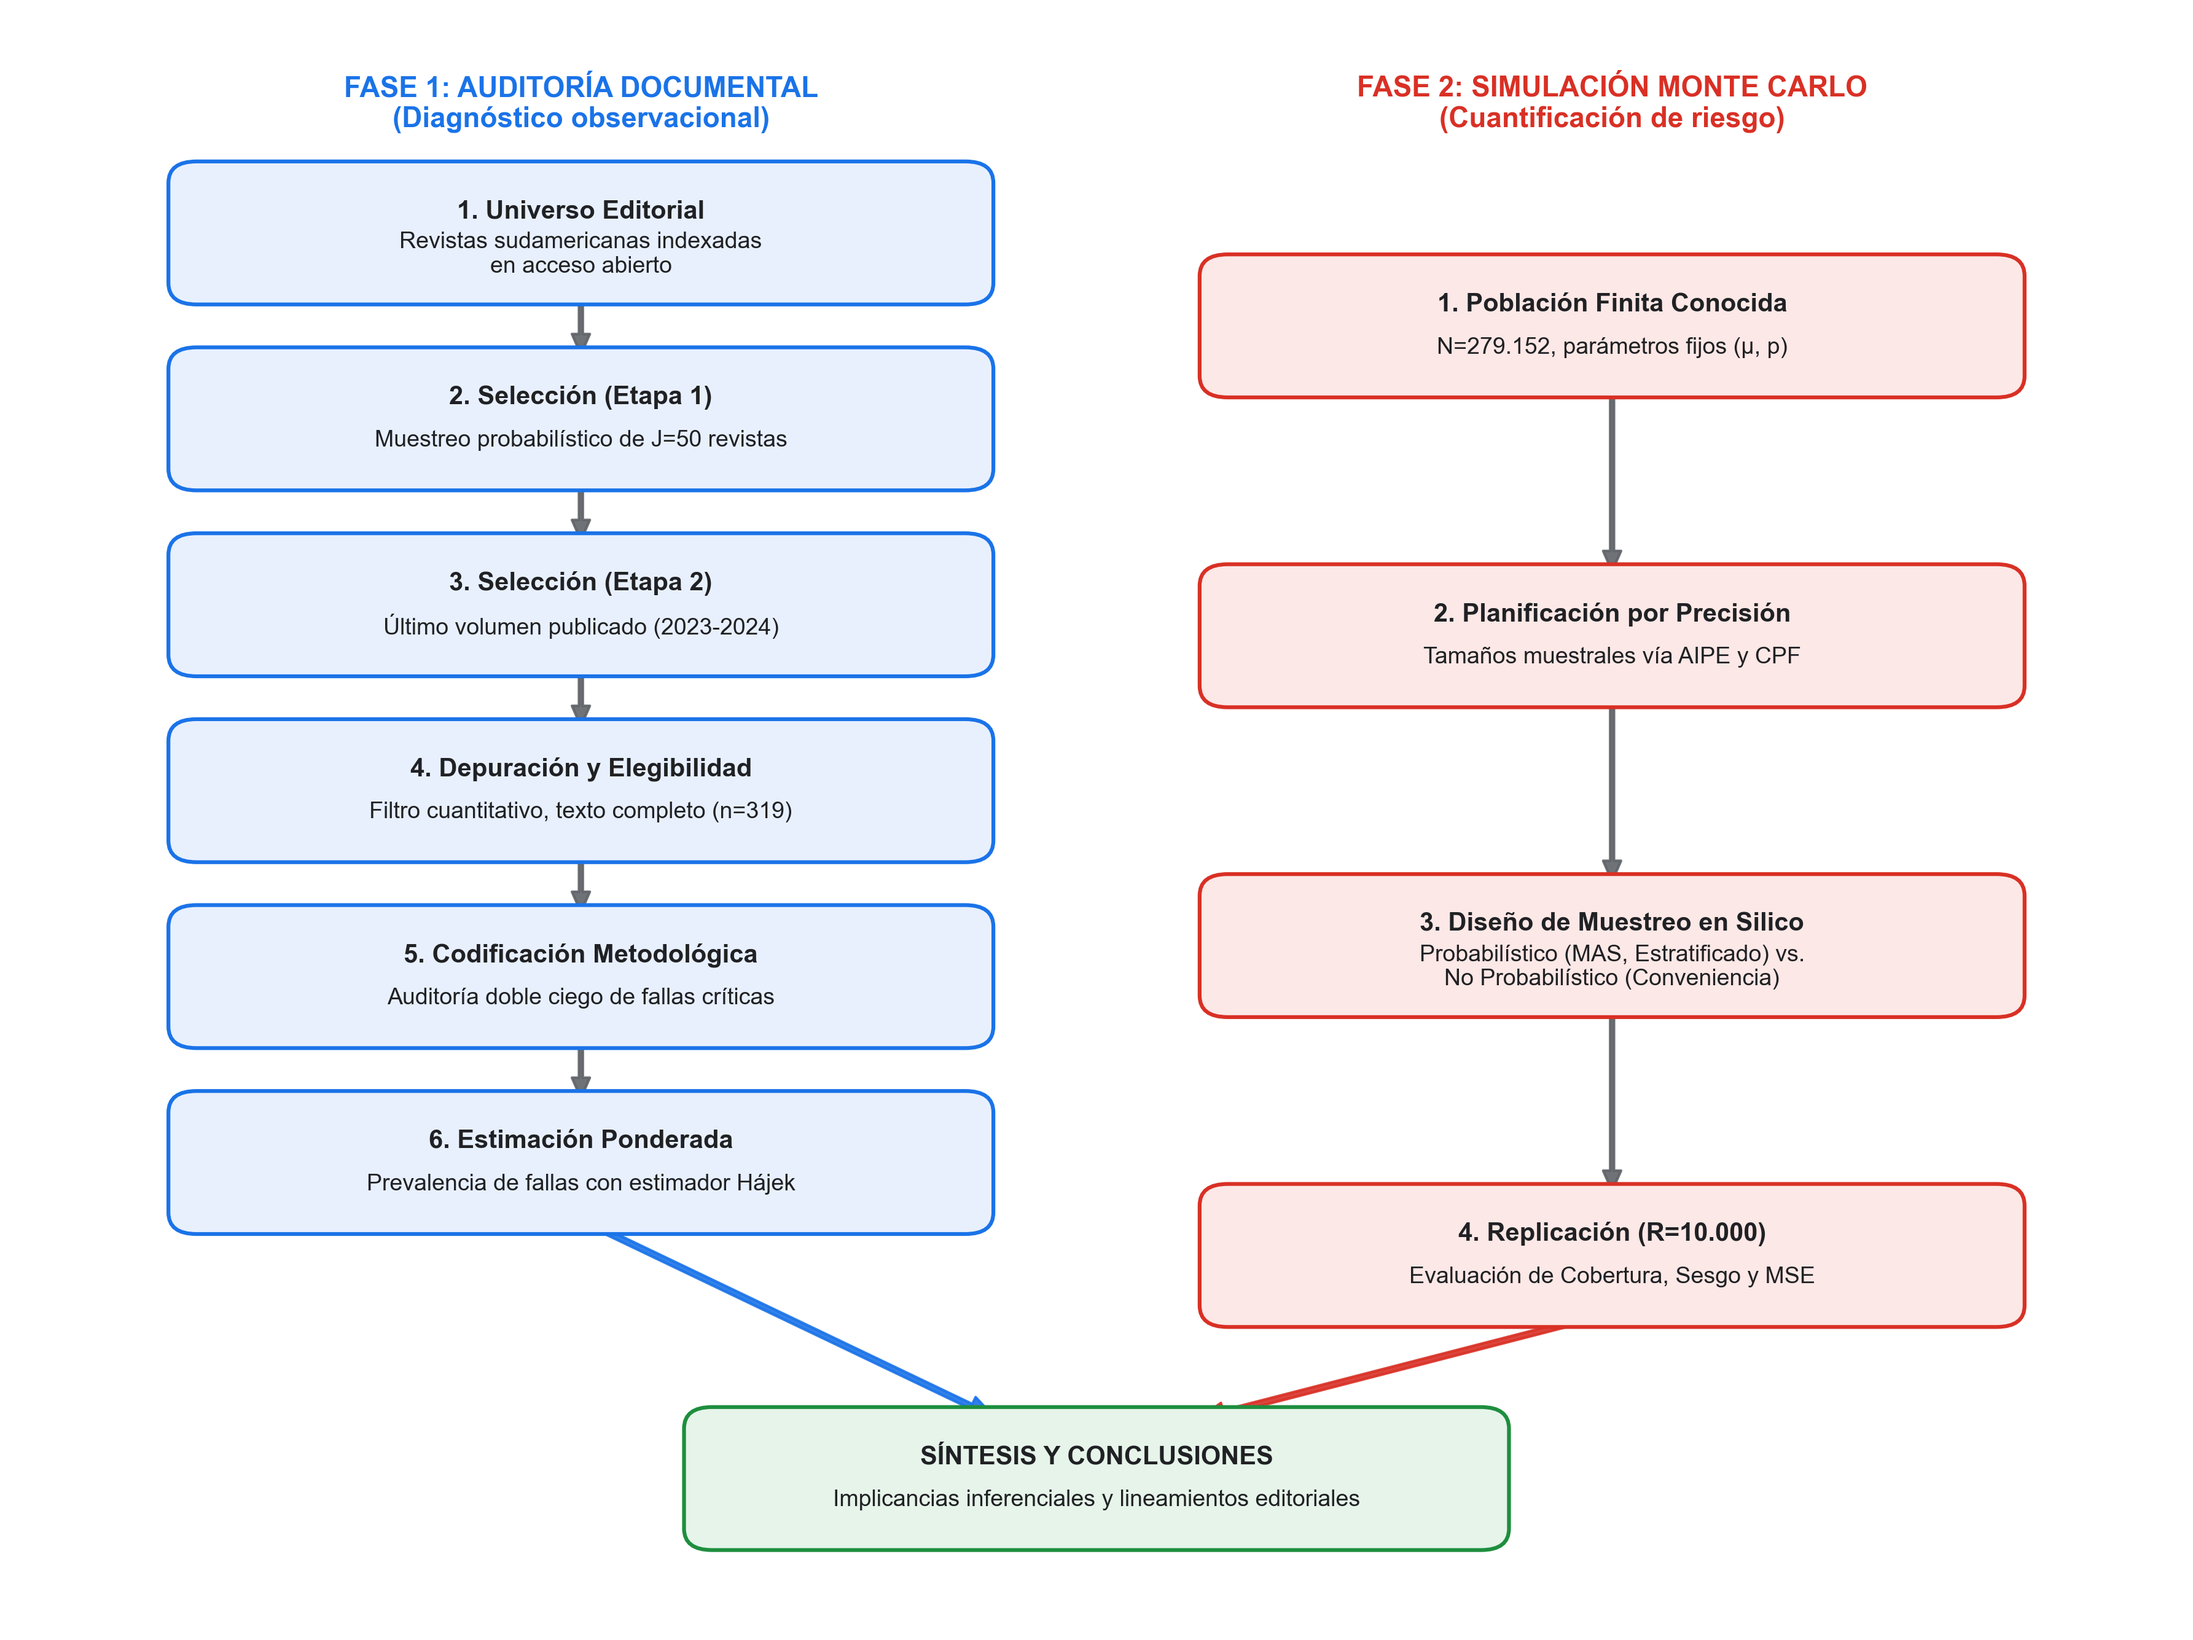
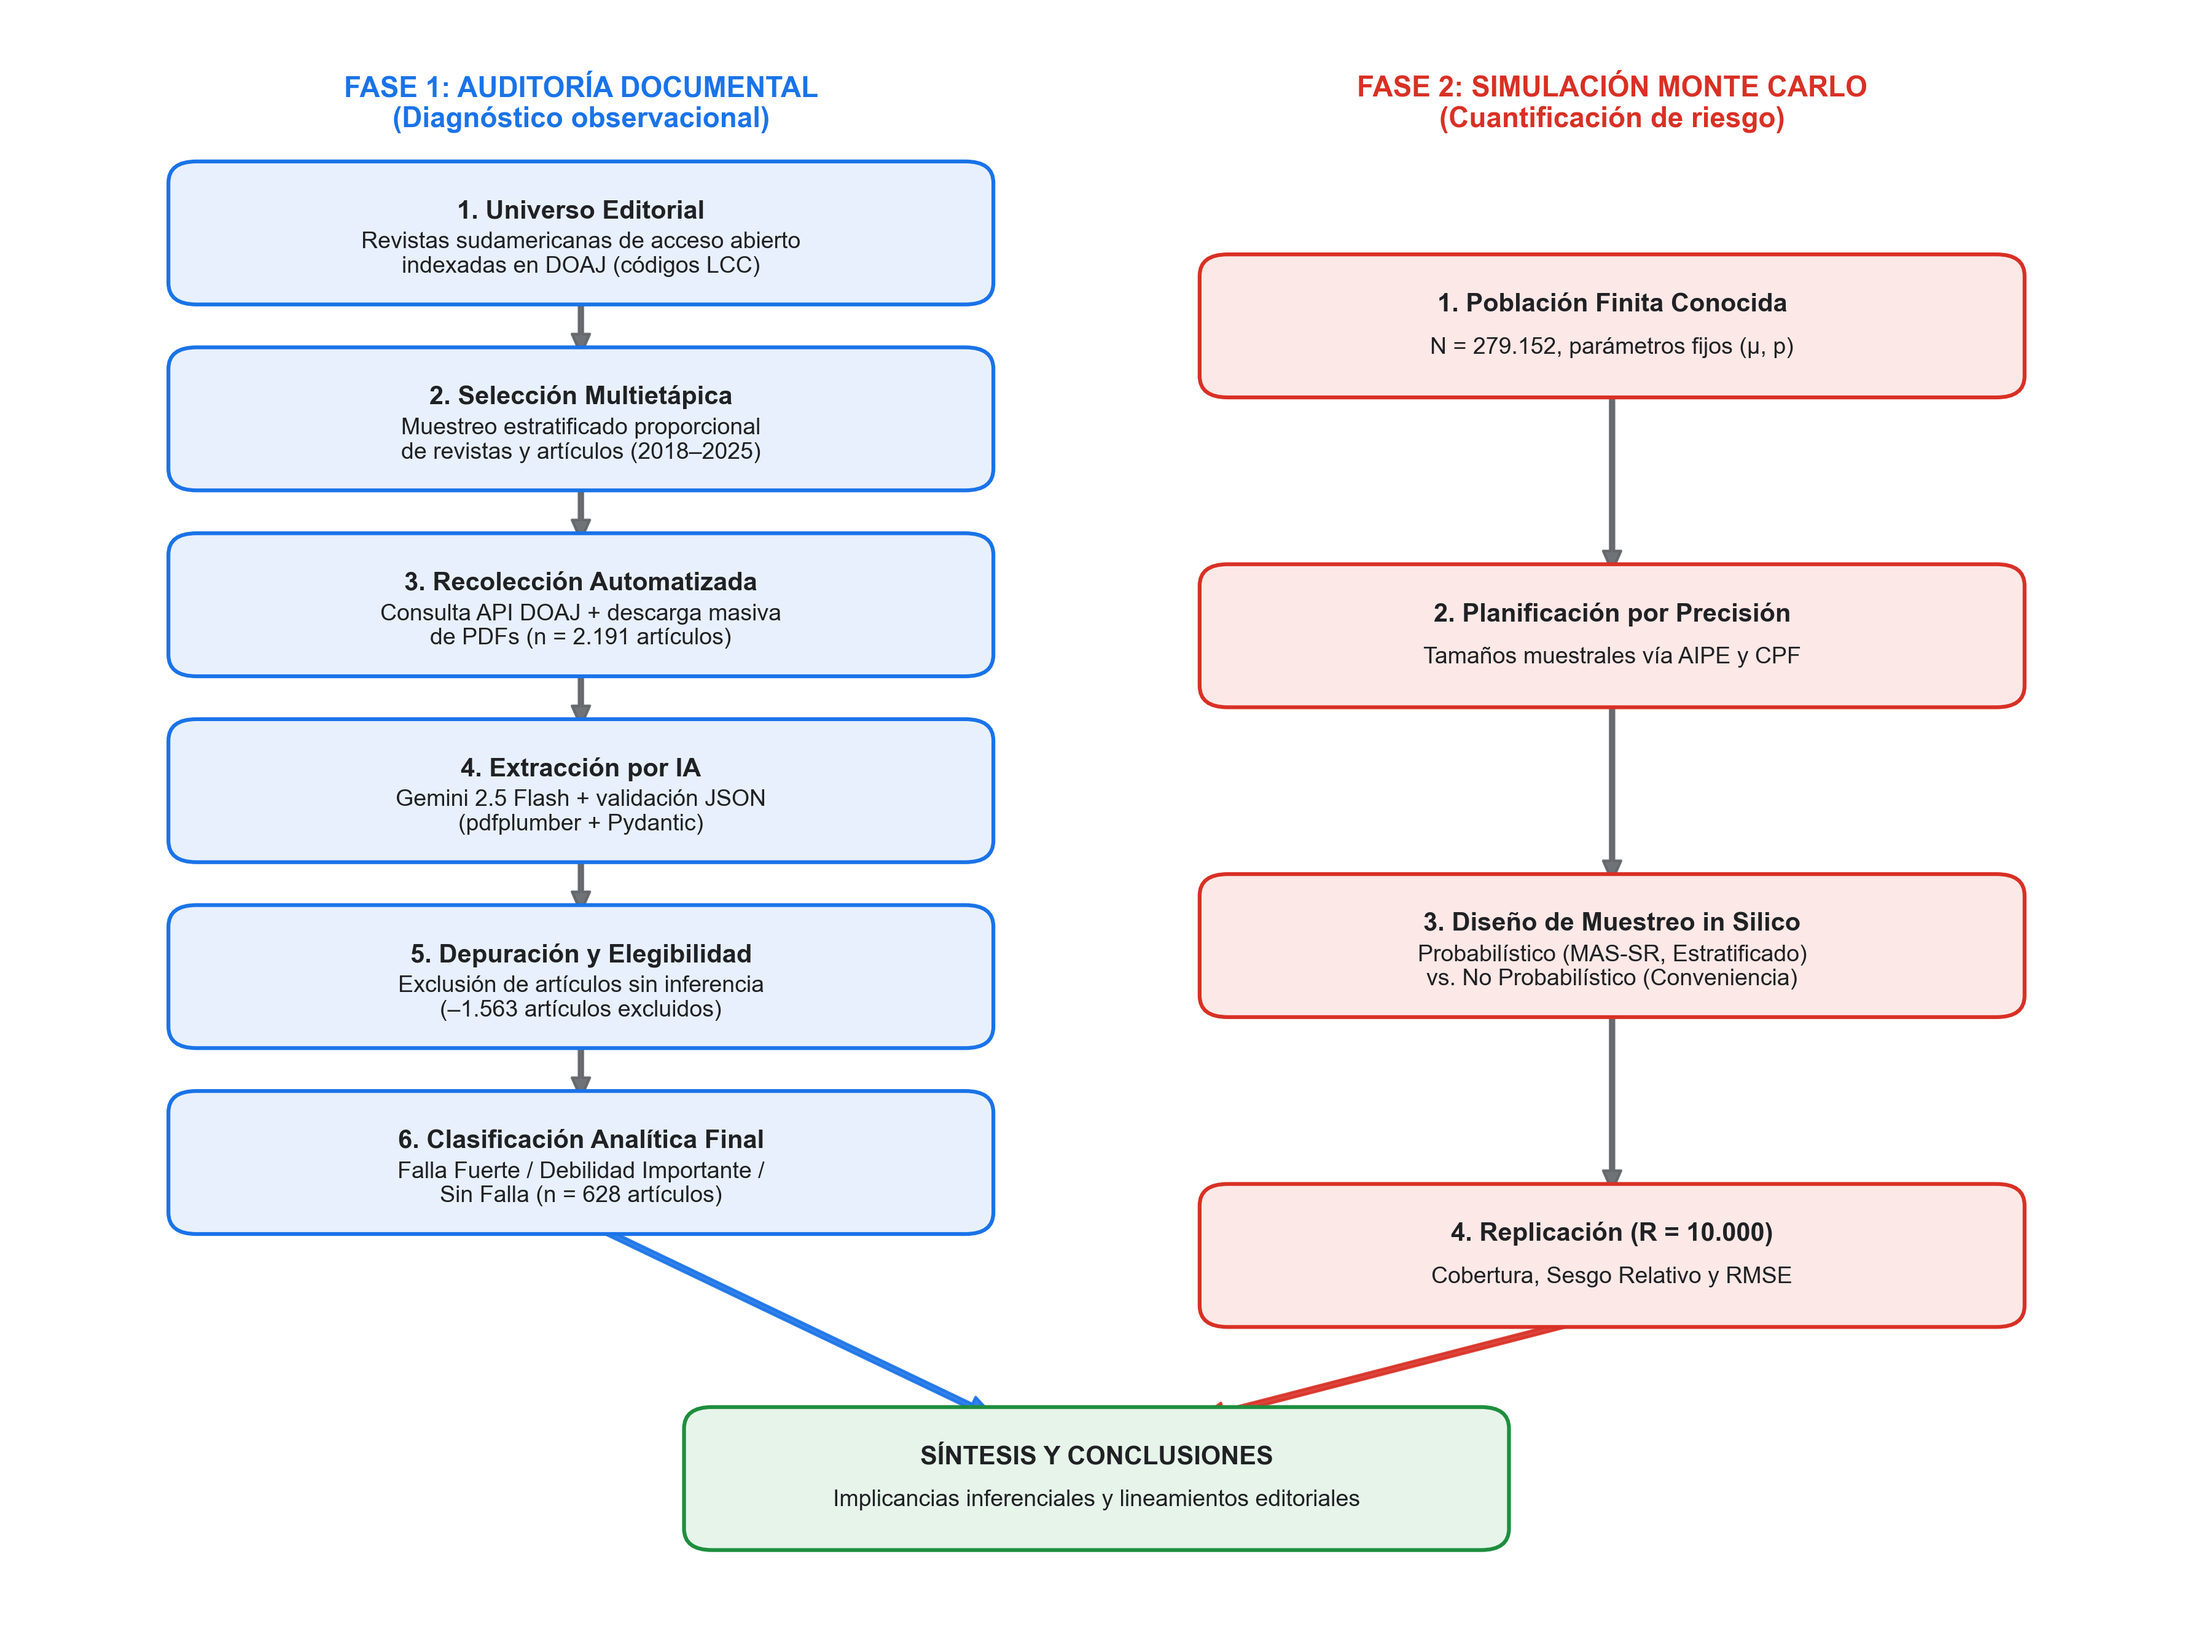
Actualizar diagrama con números correctos y agregar referencia al repositorio
- Diagrama regenerado: 2.191 PDFs → -1.563 exclusiones → 628 artículos
- main.tex: Paquete de replicación → GitHub repo (reemplaza placeholder Dataverse)
- metodologia.tex: Nueva subsección 'Replicabilidad y acceso abierto'
- generar_diagrama_metodologia.py: Números actualizados

diff --git a/scripts/04_figuras_tablas/generar_diagrama_metodologia.py b/scripts/04_figuras_tablas/generar_diagrama_metodologia.py
@@ -1,6 +1,7 @@
 import matplotlib.pyplot as plt
 import matplotlib.patches as patches
 import os
+import sys
 
 # Configuración de fuente y tamaño
 plt.rcParams['font.family'] = 'sans-serif'
@@ -64,22 +65,22 @@ x_aud = 3
 x_sim = 8.5
 y_start = 8
 
-# Textos Auditoría
+# Textos Auditoría — NÚMEROS ACTUALIZADOS
 aud_texts = [
-    "1. Universo Editorial\nRevistas sudamericanas indexadas\nen acceso abierto",
-    "2. Selección (Etapa 1)\nMuestreo probabilístico de J=50 revistas",
-    "3. Selección (Etapa 2)\nÚltimo volumen publicado (2023-2024)",
-    "4. Depuración y Elegibilidad\nFiltro cuantitativo, texto completo (n=319)",
-    "5. Codificación Metodológica\nAuditoría doble ciego de fallas críticas",
-    "6. Estimación Ponderada\nPrevalencia de fallas con estimador Hájek"
+    "1. Universo Editorial\nRevistas sudamericanas de acceso abierto\nindexadas en DOAJ (códigos LCC)",
+    "2. Selección Multietápica\nMuestreo estratificado proporcional\nde revistas y artículos (2018–2025)",
+    "3. Recolección Automatizada\nConsulta API DOAJ + descarga masiva\nde PDFs (n = 2.191 artículos)",
+    "4. Extracción por IA\nGemini 2.5 Flash + validación JSON\n(pdfplumber + Pydantic)",
+    "5. Depuración y Elegibilidad\nExclusión de artículos sin inferencia\n(–1.563 artículos excluidos)",
+    "6. Clasificación Analítica Final\nFalla Fuerte / Debilidad Importante /\nSin Falla (n = 628 artículos)"
 ]
 
 # Textos Simulación
 sim_texts = [
-    "1. Población Finita Conocida\nN=279.152, parámetros fijos (\u03bc, p)",
+    "1. Población Finita Conocida\nN = 279.152, parámetros fijos (μ, p)",
     "2. Planificación por Precisión\nTamaños muestrales vía AIPE y CPF",
-    "3. Diseño de Muestreo en Silico\nProbabilístico (MAS, Estratificado) vs.\nNo Probabilístico (Conveniencia)",
-    "4. Replicación (R=10.000)\nEvaluación de Cobertura, Sesgo y MSE"
+    "3. Diseño de Muestreo in Silico\nProbabilístico (MAS-SR, Estratificado)\nvs. No Probabilístico (Conveniencia)",
+    "4. Replicación (R = 10.000)\nCobertura, Sesgo Relativo y RMSE"
 ]
 
 # Títulos de columnas
@@ -123,9 +124,12 @@ draw_arrow(x_sim, y_last_sim - box_h/2, (x_aud + x_sim)/2 + 0.5, y_final + box_h
 ax.set_xlim(0, 11.5)
 ax.set_ylim(y_final - 1, y_start + 1.5)
 
-output_path = r'G:\Mi unidad\DECENA_FACEN\03_TESIS\articulo_fallas_metodologicas\manuscrito\ARTICULO\tablasyfig\figura_metodologia_dual'
-plt.tight_layout()
-plt.savefig(f'{output_path}.pdf', format='pdf', bbox_inches='tight', dpi=300)
-plt.savefig(f'{output_path}.png', format='png', bbox_inches='tight', dpi=300)
+# Output path from command line argument or default
+if len(sys.argv) > 1:
+    output_path = sys.argv[1]
+else:
+    output_path = 'figura_metodologia_dual'
 
-print(f"Generado exitosamente:\n- {output_path}.pdf\n- {output_path}.png")
+plt.tight_layout()
+plt.savefig(f'{output_path}.png', format='png', bbox_inches='tight', dpi=300)
+print(f"Generado exitosamente: {output_path}.png")

diff --git a/manuscrito/main.tex b/manuscrito/main.tex
@@ -129,12 +129,12 @@
 
 \vspace{6pt}
 {\small \textbf{DOI:} (a ser atribuído)\par}
-{\small \textbf{Base de datos:} \href{https://doi.org/10.7910/DVN/XXXXXX}{https://doi.org/10.7910/DVN/XXXXXX}\par}
+{\small \textbf{Paquete de replicación:} \href{https://github.com/diegomezapy/errores_inferenciales_revistas_sudamerica}{github.com/diegomezapy/errores\_inferenciales\_revistas\_sudamerica}\par}
 
 \begingroup
 \renewcommand{\thefootnote}{\fnsymbol{footnote}}
 \footnotetext[1]{%
-Nota: reemplace el enlace de Base de datos por un identificador persistente (por ejemplo Harvard Dataverse o Zenodo) que incluya al menos, la base consolidada de 628 artículos y, idealmente, los scripts de extracción y simulación. Los agradecimientos y financiamiento, si aplica, deben declararse aquí.%
+El repositorio de replicación incluye la base analítica consolidada de 628 artículos, los scripts de recolección (API DOAJ), extracción por inteligencia artificial (Gemini 2.5 Flash), simulación Monte Carlo y generación de figuras. Los archivos PDF de los artículos no se incluyen por razones de derechos de autor, pero pueden descargarse ejecutando los scripts de recolección.%
 }
 \renewcommand{\thefootnote}{\arabic{footnote}}
 \endgroup

diff --git a/manuscrito/metodologia.tex b/manuscrito/metodologia.tex
@@ -59,3 +59,7 @@ La cobertura se definió como
 \]
 
 El bootstrap se utilizó solo como diagnóstico numérico de variabilidad condicional a la muestra. En ningún caso se interpretó como mecanismo capaz de restaurar validez inferencial poblacional cuando la muestra madre fue obtenida por conveniencia. Los intervalos bootstrap se reportan, por tanto, exclusivamente como medida de estabilidad interna y no como cobertura poblacional \citep{noordzij2010,reinhart2015}.
+
+\subsection{Replicabilidad y acceso abierto}
+
+Con el propósito de garantizar la transparencia y la replicabilidad del estudio, la base analítica consolidada de 628 artículos, los scripts de recolección automatizada (API DOAJ), los módulos de extracción asistida por inteligencia artificial (Gemini 2.5 Flash), el código de simulación Monte Carlo y los generadores de figuras y tablas se encuentran disponibles en un repositorio público de acceso abierto.\footnote{Paquete de replicación: \url{https://github.com/diegomezapy/errores_inferenciales_revistas_sudamerica}} Los archivos PDF de los artículos auditados no se incluyen por razones de derechos de autor, pero pueden descargarse ejecutando los scripts provistos.
